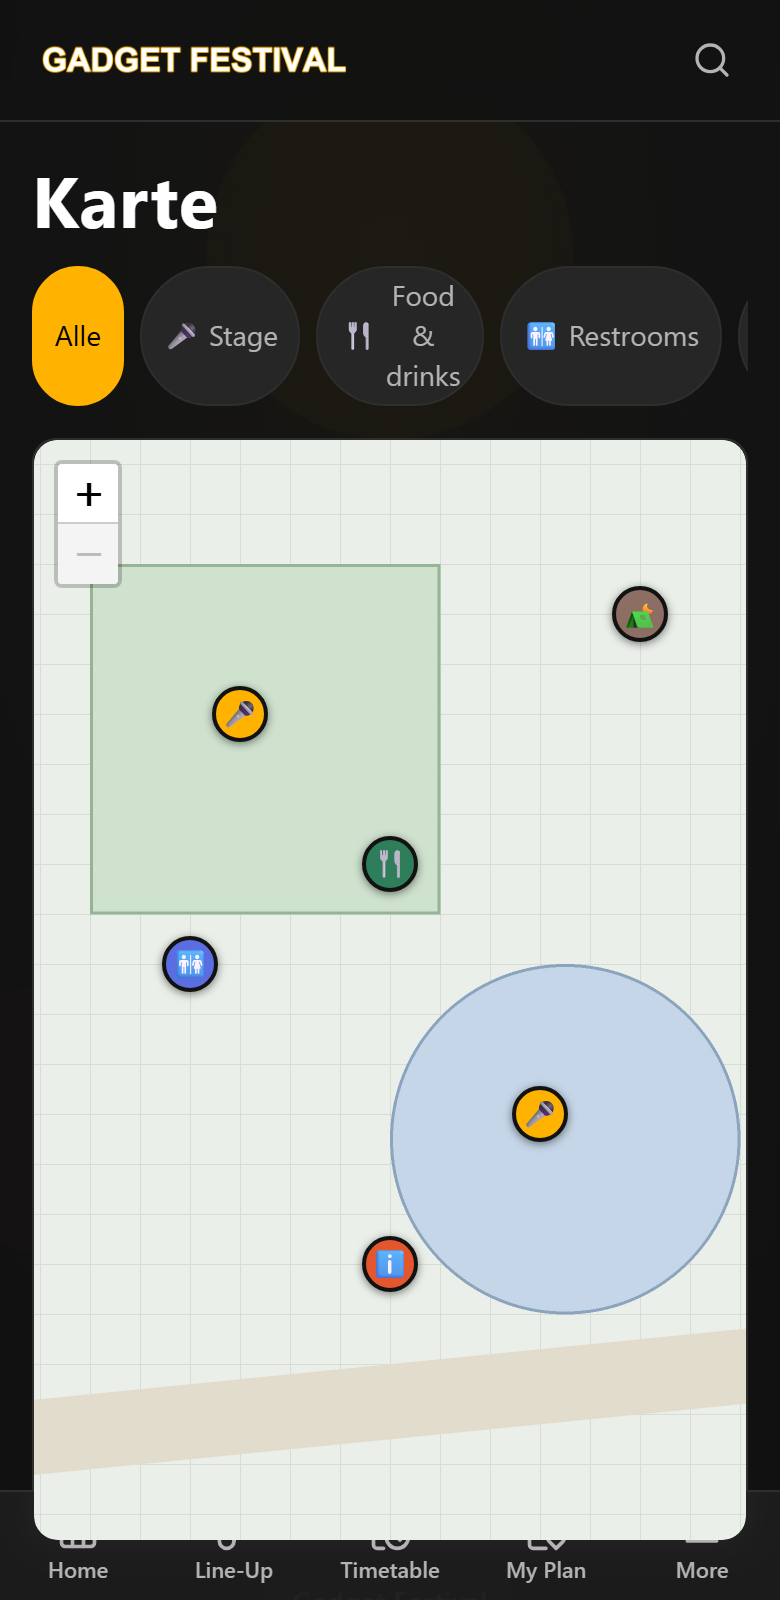
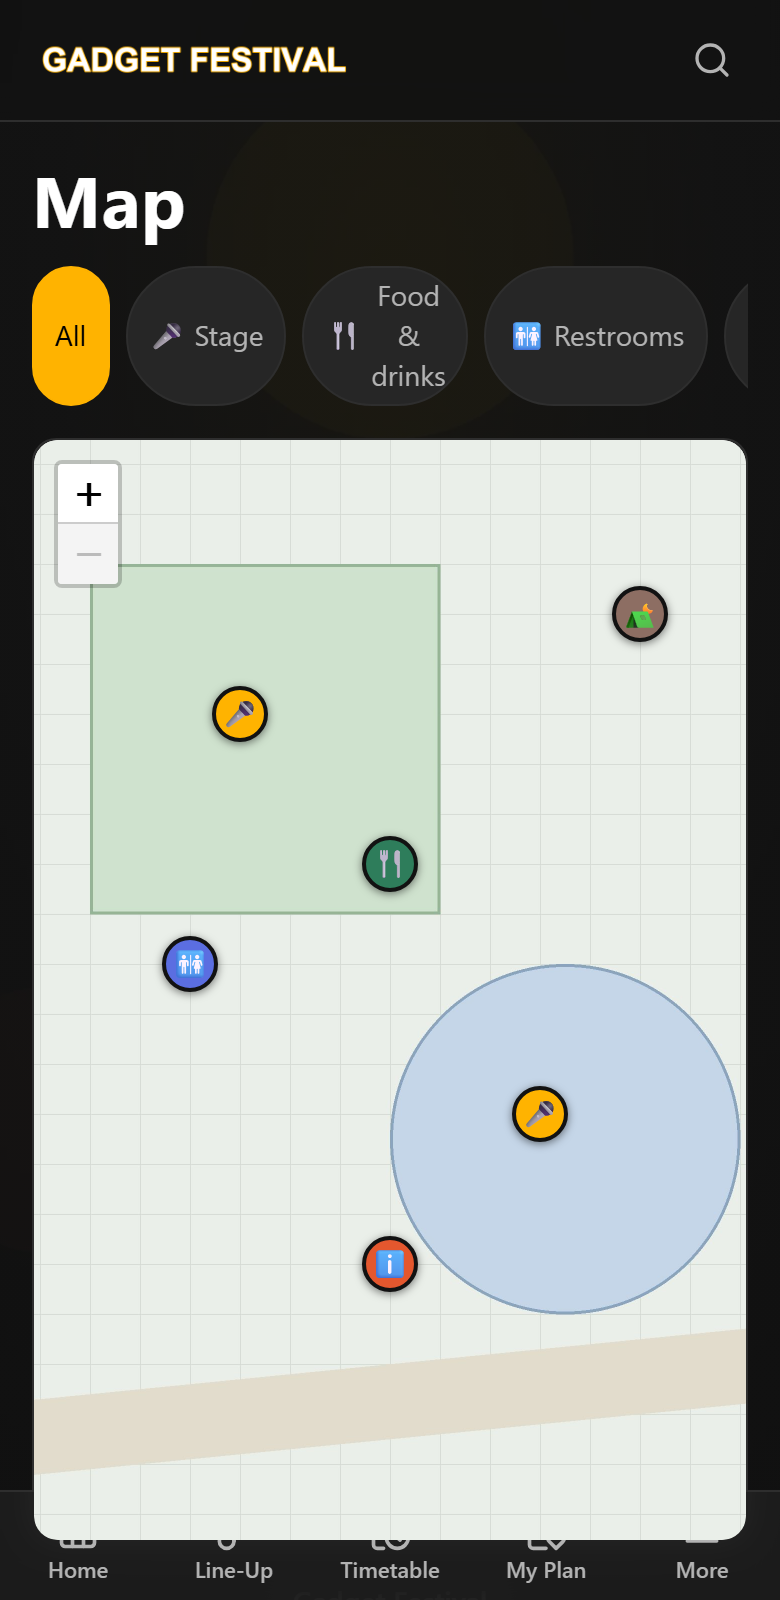
fix: v1.3.1 - translate last hardcoded German UI strings + social preview image

diff --git a/src/routes/Search.tsx b/src/routes/Search.tsx
@@ -1,4 +1,5 @@
 import { useMemo, useState } from "react";
+import { useTranslation } from "react-i18next";
 import { Link } from "react-router-dom";
 import { Search as SearchIcon, Music2, CalendarClock, Info, MapPin } from "lucide-react";
 import { useSearchIndex, runSearch, type SearchKind } from "@/features/search/useSearchIndex";
@@ -12,6 +13,7 @@ const KIND_ICON: Record<SearchKind, typeof Info> = {
 };
 
 export default function Search() {
+  const { t } = useTranslation();
   const [query, setQuery] = useState("");
   const index = useSearchIndex();
   const results = useMemo(() => runSearch(index, query), [index, query]);
@@ -19,7 +21,7 @@ export default function Search() {
   return (
     <section className="space-y-4">
       <BackLink to="/more" label="Mehr" />
-      <h1 className="text-2xl font-bold">Suche</h1>
+      <h1 className="text-2xl font-bold">{t("search.title")}</h1>
 
       <div className="flex items-center gap-2 rounded-xl border border-rid-border bg-rid-surface px-3 py-2">
         <SearchIcon size={18} className="text-rid-muted" />

diff --git a/src/routes/MapPage.tsx b/src/routes/MapPage.tsx
@@ -1,3 +1,4 @@
+import { useTranslation } from "react-i18next";
 import { useMemo, useState } from "react";
 import { useMapConfig, usePois, usePoiCategories, useStages } from "@/data/queries";
 import { LoadingState, ErrorState, EmptyState } from "@/components/states";
@@ -8,6 +9,7 @@ import { resolvePoiMeta } from "@/features/map/poiMeta";
 import type { Poi } from "@/types";
 
 export default function MapPage() {
+  const { t } = useTranslation();
   const { data: config, isLoading: l1, isError, refetch } = useMapConfig();
   const { data: pois, isLoading: l2 } = usePois();
   const { data: categories } = usePoiCategories();
@@ -68,7 +70,7 @@ export default function MapPage() {
 
   return (
     <section className="space-y-3">
-      <h1 className="text-2xl font-bold">Karte</h1>
+      <h1 className="text-2xl font-bold">{t("map.title")}</h1>
       <PoiFilterBar
         available={available}
         active={active}

diff --git a/src/features/map/PoiFilterBar.tsx b/src/features/map/PoiFilterBar.tsx
@@ -13,14 +13,17 @@ interface Props {
   onReset: () => void;
 }
 
+import { useTranslation } from "react-i18next";
+
 // Filterleiste: Chips je vorhandener (sichtbarer) POI-Kategorie (§12.4).
 export function PoiFilterBar({ available, active, onToggle, onReset }: Props) {
+  const { t } = useTranslation();
   const allActive = active.size === 0;
 
   return (
     <div className="flex gap-2 overflow-x-auto pb-1">
       <button onClick={onReset} className={allActive ? "rid-chip rid-chip-active" : "rid-chip"}>
-        Alle
+        {t("map.all")}
       </button>
       {available.map((cat) => {
         const isActive = active.has(cat.id);

diff --git a/src/components/TopBar.tsx b/src/components/TopBar.tsx
@@ -27,7 +27,7 @@ export function TopBar() {
           <PushBellButton />
           <Link
             to="/search"
-            aria-label="Suche"
+            aria-label="Search"
             className="rounded-full p-2 text-rid-muted hover:text-rid-accent"
           >
             <Search size={20} />

diff --git a/CHANGELOG.md b/CHANGELOG.md
@@ -5,6 +5,15 @@ Format nach [Keep a Changelog](https://keepachangelog.com/de/1.0.0/), Versionier
 
 ## [Unreleased]
 
+## [1.3.1] – 2026-08-18
+
+### Fixed
+
+- **Letzte hart kodierte deutsche UI-Texte übersetzt:** Karten-Titel,
+  „Alle"-Filter-Chip auf der Karte, Suche-Titel und das Such-aria-Label
+  laufen jetzt über i18n (de/en/fr/es) – aufgefallen beim Erstellen der
+  englischen Screenshots.
+
 ## [1.3.0] – 2026-08-18
 
 ### Fixed
